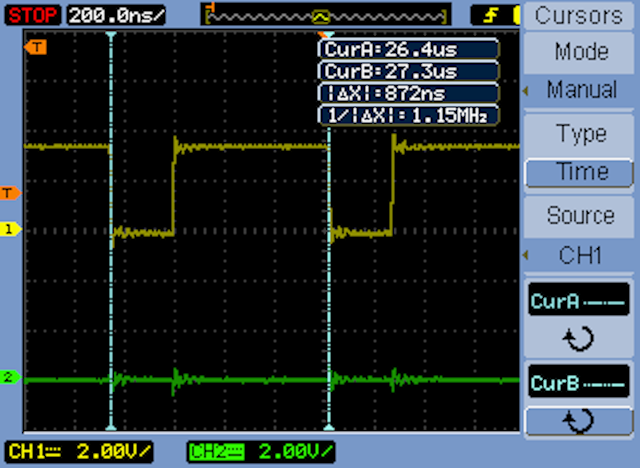
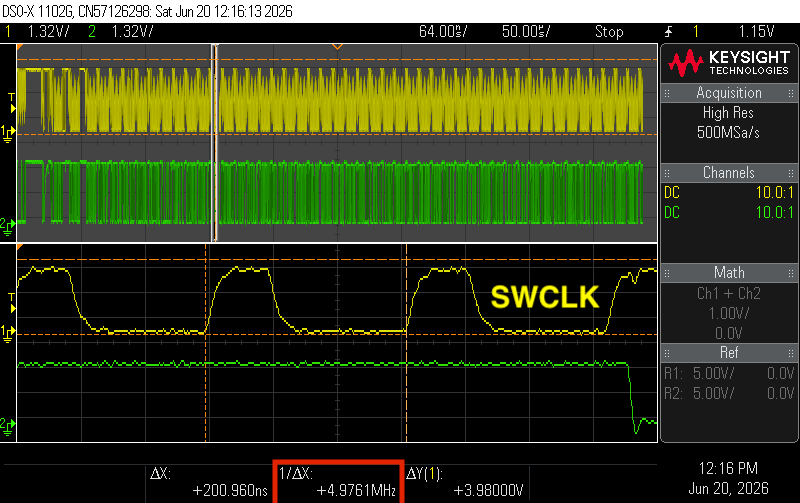
Update scopeshots.

diff --git a/README.md b/README.md
@@ -10,13 +10,14 @@ This project provides the remote-side implementation of the cmsis_dap_tcp
 protocol, using an ESP32 as the remote programmer. It allows a cheap ESP32
 board to program and debug an ARM microcontroller target. Both JTAG and the
 two-wire SWD interface are supported. OpenOCD connects to the ESP32 using
-TCP/IP over WiFi, allowing remote flashing and debugging of the ARM target
+TCP/IP over WiFi, allowing remote flashing and debugging of the target
 board.
 
 ![diagram](img/cmsis_dap_tcp_diagram.svg)
 
 - Tested with the XIAO ESP32C6 and ESP32-S3-DevKitC-1 development boards as the
   programmer, and STM32F103 Blue Pill and Nucleo STM32F401RE as the targets.
+  A Lattice FPGA target has also been successfully used.
 - Either JTAG mode or SWD mode can be used to program the target. 2 GPIO are
   needed for SWD, or a minimum of 4 GPIO for JTAG.
 - An optional GPIO pin can be used to drive the NRST# (SRST) signal, but this
@@ -196,13 +197,16 @@ impact performance.
 
 # Performance
 
-A single SWD 32-bit transfer completes in about 45 microseconds, with an
-SWCLK clock rate of approximately 1 MHz. Yellow is SWCLK. Green is SWDIO.
+On the ESP32-S3 @ 240MHz, a single SWD 32-bit transfer completes in less than
+10 microseconds, with a maximum SWCLK clock rate of 5 MHz. The SWCLK duty cycle
+is not 50% and it may vary slightly from one transfer to the next. An SWD
+read cycle is pictured below. Yellow is SWCLK. Green is SWDIO.
 
-(TODO: the scope available at the time to make these measurements was very
-limited. Redo these measurements with a better scope).
+<br>
 
 ![scopeshot1](img/scopeshot1.png)
+
+<br>
 
 ![scopeshot1](img/scopeshot2.png)
 